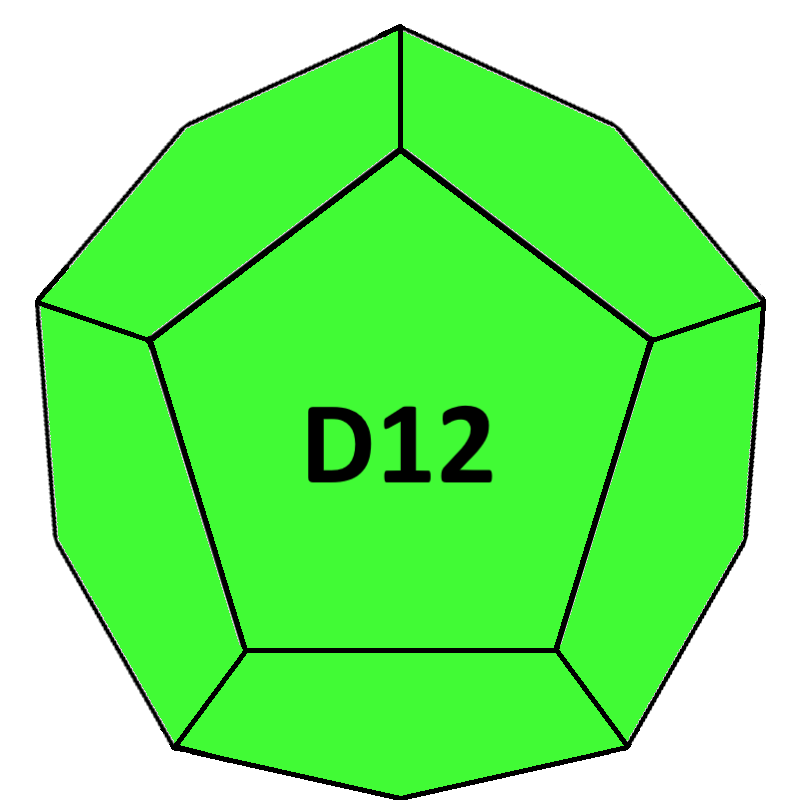
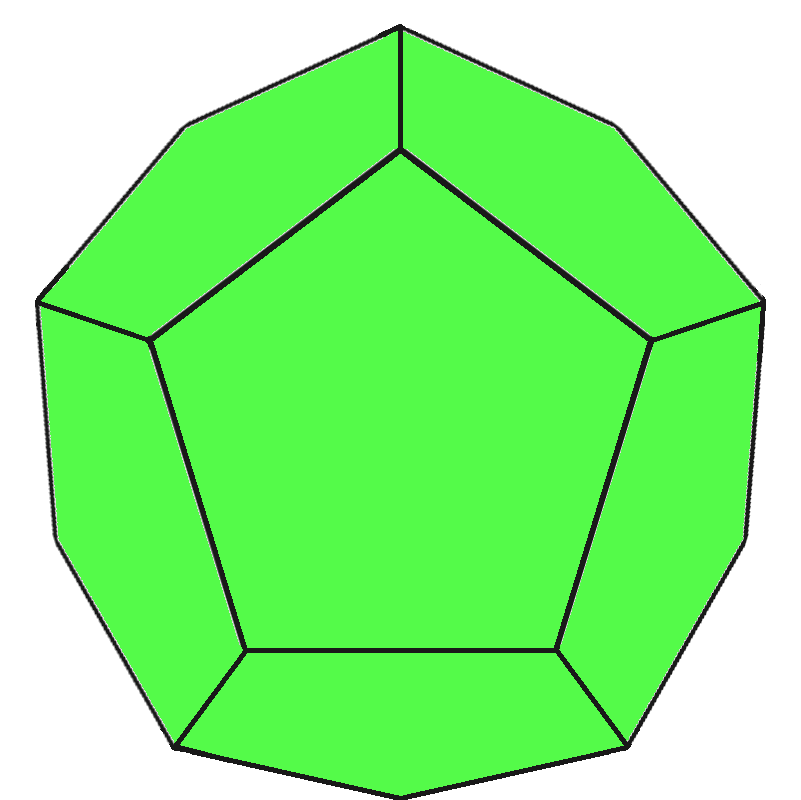
replaced d12 image and amended positioning of elements to match d20 style

diff --git a/D&D_dice_roller.html b/D&D_dice_roller.html
@@ -15,48 +15,49 @@
       <section>
         <div class="dice-section">
           <!-- <img src="assets/images/d20.png" alt="A bright green D20 di"> -->
-          <h3 class="heading20">D20</h3>
-          <input value="Click to roll" onclick="d20Roller()" type="button" id="20roller" class="roll-button20">
-          <img src="assets/images/d20.png" alt="A bright green D20 di" class="img20">
-          <!-- <p class="roll-score" id="20score">Score:</p> -->
-          <p class="roll-score20" id="20score"></p>
+          <h3 class="headingnew">D20</h3>
+          <input value="Click to roll" onclick="d20Roller()" type="button" id="20roller" class="roll-buttonnew">
+          <img src="assets/images/d20.png" alt="A bright green D20 di" class="imgnew">
+          <!-- <p class="roll-score" id="score20">Score:</p> -->
+          <p class="roll-scorenew" id="score20"></p>
           <p id="crit"></p>
         </div>
         <div class="dice-section">
-          <img src="assets/images/d12.png" alt="A bright green D12 di">
-          <h3>D12</h3>
-          <input value="Click to roll" onclick="d12Roller()" type="button" id="12roller" class="roll-button">
-          <p class="roll-score" id="12score">Score:</p>
+          <!-- <img src="assets/images/d12.png" alt="A bright green D12 di"> -->
+          <h3 class="headingnew">D12</h3>
+          <input value="Click to roll" onclick="d12Roller()" type="button" id="12roller" class="roll-buttonnew">
+          <img src="assets/images/d12.png" alt="A bright green D12 di" class="imgnew">
+          <p class="roll-scorenew" id="score12"></p>
         </div>
         <div class="dice-section">
           <img src="assets/images/d10.png" alt="A bright green D10 di">
           <h3>D10</h3>
           <input value="Click to roll" onclick="d10Roller()" type="button" id="10roller" class="roll-button">
-          <p class="roll-score" id="10score">Score:</p>
+          <p class="roll-score" id="score10">Score:</p>
         </div>
         <div class="dice-section">
           <img src="assets/images/d8.png" alt="A bright green D8 di">
           <h3>D8</h3>
           <input value="Click to roll" onclick="d8Roller()" type="button" id="8roller" class="roll-button">
-          <p class="roll-score" id="8score">Score:</p>
+          <p class="roll-score" id="score8">Score:</p>
         </div>
         <div class="dice-section">
           <img src="assets/images/d6.png" alt="A bright green D6 di">
           <h3>D6</h3>
           <input value="Click to roll" onclick="d6Roller()" type="button" id="6roller" class="roll-button">
-          <p class="roll-score" id="6score">Score:</p>
+          <p class="roll-score" id="score6">Score:</p>
         </div>
         <div class="dice-section">
           <img src="assets/images/d4.png" alt="A bright green D4 di">
           <h3>D4</h3>
           <input value="Click to roll" onclick="d4Roller()" type="button" id="4roller" class="roll-button">
-          <p class="roll-score" id="4score">Score:</p>
+          <p class="roll-score" id="score4">Score:</p>
         </div>
         <div class="dice-section">
           <img src="assets/images/d100.png" alt="A bright green D100 di">
           <h3>D100</h3>
           <input value="Click to roll" onclick="d100Roller()" type="button" id="100roller" class="roll-button">
-          <p class="roll-score" id="100score">Score:</p>
+          <p class="roll-score" id="score100">Score:</p>
         </div>
       </section>
     </body>

diff --git a/D&D_dice_roller.js b/D&D_dice_roller.js
@@ -2,8 +2,8 @@
         
         function d20Roller() {
             let result20 = (Math.floor(Math.random() * 20) + 1);
-            // document.getElementById('20score').innerHTML = "Score: " + result20;
-            document.getElementById('20score').innerHTML = result20;
+            // document.getElementById('score20').innerHTML = "Score: " + result20;
+            document.getElementById('score20').innerHTML = result20;
 
 // To represent the critical status assigned to both a 1 and 20 result with a D20, an additional HTML message will appear below the value if it is a 20 or 1.
 
@@ -20,30 +20,31 @@
 
         function d12Roller() {
           let result12 = (Math.floor(Math.random() * 12) + 1);
-          document.getElementById('12score').innerHTML = "Score: " + result12;
+          // document.getElementById('score12').innerHTML = "Score: " + result12;
+          document.getElementById('score12').innerHTML = result12;
         }
 
         function d10Roller() {
           let result10 = (Math.floor(Math.random() * 10) + 1);
-          document.getElementById('10score').innerHTML = "Score: " + result10;
+          document.getElementById('score10').innerHTML = "Score: " + result10;
         }
 
         function d8Roller() {
           let result8 = (Math.floor(Math.random() * 8) + 1);
-          document.getElementById('8score').innerHTML = "Score: " + result8;
+          document.getElementById('score8').innerHTML = "Score: " + result8;
         }
 
         function d6Roller() {
           let result6 = (Math.floor(Math.random() * 6) + 1);
-          document.getElementById('6score').innerHTML = "Score: " + result6;
+          document.getElementById('score6').innerHTML = "Score: " + result6;
         }
 
         function d4Roller() {
           let result4 = (Math.floor(Math.random() * 4) + 1);
-          document.getElementById('4score').innerHTML = "Score: " + result4;
+          document.getElementById('score4').innerHTML = "Score: " + result4;
         }
 
         function d100Roller() {
           let result100 = (Math.floor(Math.random() * 100) + 1);
-          document.getElementById('100score').innerHTML = "Score: " + result100;
+          document.getElementById('score100').innerHTML = "Score: " + result100;
         }

diff --git a/assets/stylesheets/style.css b/assets/stylesheets/style.css
@@ -13,7 +13,7 @@ h3 {
     color: #2F3336;
 }
 
-.heading20 {
+.headingnew {
     font-size: 24px;
     text-align: center;
     color: #CED1D3;
@@ -30,7 +30,7 @@ img {
     margin-top: 5%;
 }
 
-.img20 {
+.imgnew {
     width: 40%;
     height: auto;
     position: relative;
@@ -64,7 +64,7 @@ img {
     margin-top: 15%;
 }
 
-.roll-button20 {
+.roll-buttonnew {
     position: relative;
     top: -75px;
     left: 50%;
@@ -97,14 +97,22 @@ img {
     font-weight: bold;
 }
 
-.roll-score20 {
+.roll-scorenew {
     position: relative;
-    top: -35px;
-    left: 2%;
     z-index: 35;
     text-align: center;
     color: #121619;
     font-weight: bold;
+}
+
+#score20 {
+    top: -35px;
+    left: 2%;
+}
+
+#score12 {
+    top: -27px;
+    left: 1%;
 }
 
 #crit {
